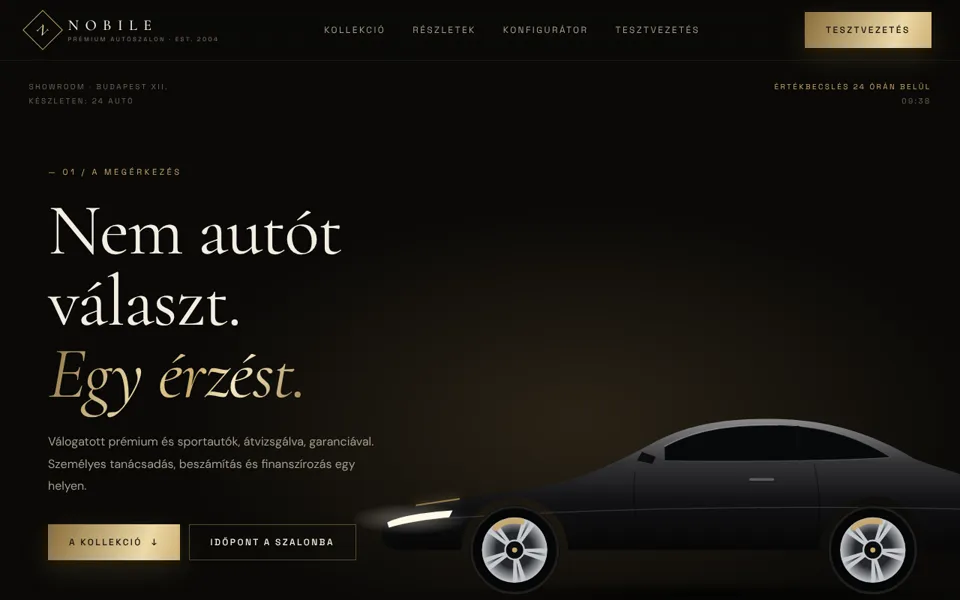
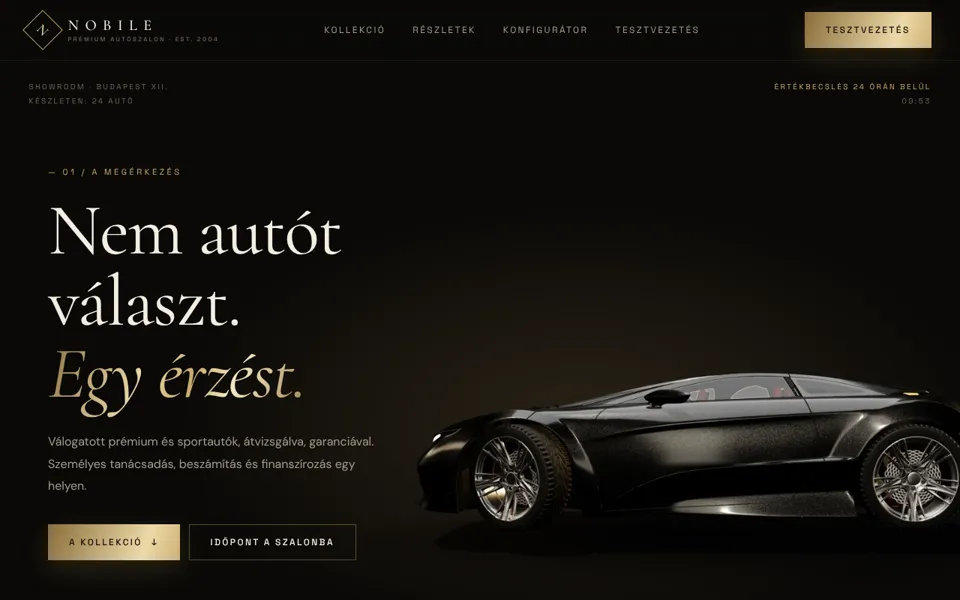
NOBILE demó: fotószerű autó-renderek a rajzolt autók helyett
A Khronos „Car Concept” 3D modelljéből (CC BY 4.0) stúdiófényben,
logók nélkül renderelt WebP-képek: nyitókép árnyék nélküli maszkkal a
fénysávhoz, 5 kollekciópanel és 15 konfigurátorkép (5 szín × 3 felni)
előtöltéses áttűnéssel. Forrásmegjelölés a láblécben.

Claude-Session: https://claude.ai/code/session_01PW6wdywBd8st8c1yxNUGe2

Changed region(s): [[0.375, 0.6, 1.0, 0.99]]

diff --git a/public/demos/nobile-autoszalon/script.js b/public/demos/nobile-autoszalon/script.js
@@ -1,4 +1,4 @@
-/* NOBILE. Prémium Autószalon — autórajzoló, fénysöprés, 3D kollekció aranypor-szétbomlással, konfigurátor, foglalás. */
+/* NOBILE. Prémium Autószalon — fénysöprés, 3D kollekció aranypor-szétbomlással, konfigurátor, foglalás. */
 (() => {
   const $ = (s, r = document) => r.querySelector(s);
   const reduced = matchMedia('(prefers-reduced-motion: reduce)').matches;
@@ -11,81 +11,20 @@
     return '#' + c.map(v => Math.round(k >= 0 ? v + (255 - v) * k : v * (1 + k)).toString(16).padStart(2, '0')).join('');
   }
 
-  /* ---------- Stilizált GT-kupé oldalnézetből (SVG) ---------- */
-  const RIMS = { silver: ['#c4c7cc', '#24262a'], black: ['#3a3a3e', '#0b0b0d'], gold: ['#d2b07a', '#3a2c16'] };
-  let uid = 0;
-  function carSVG(color, rim = 'silver') {
-    const id = 'c' + (++uid), [r1, r2] = RIMS[rim];
-    const body = 'M38,214C36,196 48,184 78,180L214,160C262,152 300,136 352,108C392,86 440,78 500,80C560,82 610,98 656,126C700,142 742,152 760,166C774,178 774,206 766,222L748,232L670,232A62,62 0 0 0 546,232L254,232A62,62 0 0 0 130,232L58,232C44,230 38,224 38,214Z';
-    const roof = 'M78,180L214,160C262,152 300,136 352,108C392,86 440,78 500,80C560,82 610,98 656,126C700,142 742,152 760,166';
-    const wheel = (cx) => `<g class="wheel" data-cx="${cx}" transform="translate(${cx} 232)">
-        <circle r="52" fill="#060606"/><circle r="50" fill="none" stroke="#1d1d1d" stroke-width="3"/>
-        <circle r="38" fill="url(#${id}r)"/>
-        <g class="spokes">${[0, 1, 2, 3, 4].map(k => `<path transform="rotate(${k * 72})" d="M-3,-10L-8,-37L-2,-37L0,-14L2,-37L8,-37L3,-10Z" fill="${r1}"/>`).join('')}</g>
-        <path d="M-22,-26A34,34 0 0 1 8,-33" stroke="#c9a96a" stroke-width="7" fill="none" stroke-linecap="round" opacity=".9"/>
-        <circle r="11" fill="#0c0c0c" stroke="${r1}" stroke-width="2"/><circle r="3" fill="#c9a96a"/>
-      </g>`;
-    return `<svg class="car" viewBox="0 0 800 300" aria-hidden="true">
-      <defs>
-        <linearGradient id="${id}b" x1="0" y1="80" x2="0" y2="235" gradientUnits="userSpaceOnUse">
-          <stop offset="0" stop-color="${shade(color, .5)}"/><stop offset=".32" stop-color="${shade(color, .14)}"/>
-          <stop offset=".6" stop-color="${color}"/><stop offset="1" stop-color="${shade(color, -.75)}"/>
-        </linearGradient>
-        <linearGradient id="${id}s" x1="0" x2="220" gradientUnits="userSpaceOnUse" gradientTransform="translate(-300 0)">
-          <stop offset="0" stop-color="#fff" stop-opacity="0"/><stop offset=".5" stop-color="#fff6e0" stop-opacity=".42"/><stop offset="1" stop-color="#fff" stop-opacity="0"/>
-        </linearGradient>
-        <linearGradient id="${id}l" x1="78" x2="760" gradientUnits="userSpaceOnUse">
-          <stop offset="0" stop-color="#8a6d3b"/><stop offset=".45" stop-color="#fbeac0"/><stop offset="1" stop-color="#c9a96a"/>
-        </linearGradient>
-        <radialGradient id="${id}r"><stop offset=".55" stop-color="${r2}"/><stop offset="1" stop-color="${r1}"/></radialGradient>
-        <radialGradient id="${id}g"><stop offset="0" stop-color="#000" stop-opacity=".85"/><stop offset="1" stop-color="#000" stop-opacity="0"/></radialGradient>
-        <radialGradient id="${id}h"><stop offset="0" stop-color="#fff8e6"/><stop offset="1" stop-color="#fff8e6" stop-opacity="0"/></radialGradient>
-      </defs>
-      <ellipse cx="400" cy="284" rx="390" ry="16" fill="url(#${id}g)"/>
-      <path d="${body}" fill="url(#${id}b)"/>
-      <path d="M366,112C402,92 444,86 498,87C548,88 590,100 628,124C600,128 420,130 366,128Z" fill="#07080a" stroke="#ffffff22"/>
-      <path d="M520,88L524,128" stroke="${shade(color, -.4)}" stroke-width="5"/>
-      <path d="M366,112C402,92 444,86 498,87" fill="none" stroke="#ffffff38" stroke-width="1.5"/>
-      <path d="M70,198C260,184 520,178 764,186" fill="none" stroke="#ffffff26" stroke-width="1.2"/>
-      <path d="M332,140C328,170 332,204 342,228M540,132C548,170 548,204 540,228" fill="none" stroke="#00000066" stroke-width="1.2"/>
-      <path d="M356,124l-16,-6l-6,10l18,4z" fill="${shade(color, -.3)}"/>
-      <path d="M466,150h26" stroke="#ffffff40" stroke-width="3" stroke-linecap="round"/>
-      <path d="M44,200C60,192 90,188 120,186L116,194C92,196 66,200 46,206Z" fill="#fff8e6"/>
-      <ellipse cx="70" cy="196" rx="70" ry="18" fill="url(#${id}h)" opacity=".35"/>
-      <path d="M744,170C758,174 768,182 770,190L762,190C758,184 752,180 742,177Z" fill="#c2202e"/>
-      <path class="sheen" d="${body}" fill="url(#${id}s)"/>
-      <path class="rim-light" d="${roof}" fill="none" stroke="url(#${id}l)" stroke-width="1.8" stroke-linecap="round" pathLength="100" stroke-dasharray="100 100"/>
-      ${wheel(192)}${wheel(608)}
-    </svg>`;
-  }
-  // a fénysöprés, a „rajzoló” peremfény és a kerekek forgása egy 0–1 értékből
-  function lightCar(root, t, spin = t) {
-    const sheen = root.querySelector('linearGradient[id$="s"]');
-    if (sheen) sheen.setAttribute('gradientTransform', `translate(${-300 + t * 1200} 0)`);
-    const rl = root.querySelector('.rim-light');
-    if (rl) rl.style.strokeDashoffset = String(100 - clamp(t * 1.4) * 100);
-    root.querySelectorAll('.spokes').forEach(g => g.setAttribute('transform', `rotate(${-spin * 900})`));
-  }
-
   /* ---------- Óra ---------- */
   const clock = $('#clock');
   const tick = () => { clock.textContent = new Date().toLocaleTimeString('hu-HU', { hour: '2-digit', minute: '2-digit' }); };
   tick(); setInterval(tick, 15000);
 
-  /* ---------- HERO ---------- */
-  const heroCar = $('#heroCar'), sprint = $('#sprint');
-  heroCar.innerHTML = carSVG('#121214', 'silver');
-  lightCar(heroCar, reduced ? 1 : .05);
+  /* ---------- HERO: a fénysöprés tisztán CSS (--p), itt csak a sprintidő fut le ---------- */
+  const sprint = $('#sprint');
   $('.hero').addEventListener('scene:frame', e => {
-    const p = e.detail.p;
-    lightCar(heroCar, .05 + p * .95);
-    sprint.textContent = (9.9 - clamp((p - .15) / .7) * 6.5).toFixed(1);
+    sprint.textContent = (9.9 - clamp((e.detail.p - .15) / .7) * 6.5).toFixed(1);
   });
 
   /* ---------- KOLLEKCIÓ: 3D repülés + aranypor ---------- */
   const corridor = $('#kollekcio'), world = $('#world'), pin = corridor.querySelector('.scene-pin');
   const panels = [...world.children].map((el, i) => ({ el, i, x: Number(el.dataset.x || 0), y: Number(el.dataset.y || 0), gone: false, color: el.dataset.color || '#c9a96a' }));
-  panels.forEach(pn => { const slot = pn.el.querySelector('.pc-car'); if (slot) slot.innerHTML = carSVG(pn.color, 'silver'); if (slot) lightCar(slot, .7, 0); });
 
   if (reduced) {
     corridor.classList.add('flat');
@@ -179,19 +118,24 @@
   }).join('');
 
   /* ---------- KONFIGURÁTOR + FINANSZÍROZÁS ---------- */
-  const paints = { obsidian: ['#121214', 'Obszidián', 0], champagne: ['#b89b68', 'Pezsgő', 1200000], bordeaux: ['#5b1720', 'Bordó', 950000], racing: ['#1d3a2c', 'Brit zöld', 950000], pearl: ['#e9e4da', 'Gyöngyház', 1450000] };
+  const paints = { obsidian: ['Obszidián', 0], champagne: ['Pezsgő', 1200000], bordeaux: ['Bordó', 950000], racing: ['Brit zöld', 950000], pearl: ['Gyöngyház', 1450000] };
   const rims = { silver: ['20″ ezüst', 0], black: ['21″ fekete', 680000], gold: ['22″ bronz', 1150000] };
   const BASE = 68900000;
-  const form = $('#cfgForm'), cfgCar = $('#cfgCar'), down = $('#down'), term = $('#term');
-  let price = BASE, cfg = {};
+  const form = $('#cfgForm'), cfgImg = $('#cfgImg'), down = $('#down'), term = $('#term');
+  let price = BASE, cfg = {}, swapId = 0;
   function paintCar() {
     const f = new FormData(form);
     cfg = { paint: f.get('paint'), rim: f.get('rim') };
-    cfgCar.innerHTML = carSVG(paints[cfg.paint][0], cfg.rim);
-    lightCar(cfgCar, .62, 0);
-    if (!reduced) cfgCar.animate([{ opacity: 0, transform: 'translateX(24px)' }, { opacity: 1, transform: 'none' }], { duration: 500, easing: 'cubic-bezier(.2,.8,.2,1)' });
-    $('#cfgName').textContent = `GT COUPÉ V8 · ${paints[cfg.paint][1].toUpperCase()}`;
-    price = BASE + paints[cfg.paint][2] + rims[cfg.rim][1];
+    // a következő render előtöltése, majd áttűnés – ne villanjon üres kép
+    const src = `img/cfg-${cfg.paint}-${cfg.rim}.webp`, id = ++swapId, next = new Image();
+    next.src = src;
+    next.decode().catch(() => {}).then(() => {
+      if (id !== swapId) return;
+      cfgImg.src = src;
+      if (!reduced) cfgImg.animate([{ opacity: 0, transform: 'translateX(28px)' }, { opacity: 1, transform: 'none' }], { duration: 550, easing: 'cubic-bezier(.2,.8,.2,1)' });
+    });
+    $('#cfgName').textContent = `GT COUPÉ V8 · ${paints[cfg.paint][0].toUpperCase()}`;
+    price = BASE + paints[cfg.paint][1] + rims[cfg.rim][1];
     calc();
   }
   function calc() {
@@ -212,7 +156,7 @@
   const note = $('#cfgNote');
   $('#takeCfg').addEventListener('click', () => {
     note.hidden = false;
-    note.textContent = `Csatolt konfiguráció: GT Coupé V8, ${paints[cfg.paint][1].toLowerCase()} fényezés, ${rims[cfg.rim][0]} felni – ${ft(price)}, havi ${$('#monthly').textContent}.`;
+    note.textContent = `Csatolt konfiguráció: GT Coupé V8, ${paints[cfg.paint][0].toLowerCase()} fényezés, ${rims[cfg.rim][0]} felni – ${ft(price)}, havi ${$('#monthly').textContent}.`;
   });
 
   /* ---------- Időpontfoglalás (demó, nem küld adatot) ---------- */

diff --git a/public/demos/nobile-autoszalon/index.html b/public/demos/nobile-autoszalon/index.html
@@ -7,6 +7,7 @@
     <meta name="theme-color" content="#0a0907">
     <title>NOBILE. Prémium Autószalon | Demó</title>
     <link rel="preload" href="/fonts/cormorant-garamond.woff2" as="font" type="font/woff2" crossorigin>
+    <link rel="preload" as="image" href="img/hero.webp" imagesrcset="img/hero-1100.webp 1100w, img/hero.webp 2200w" imagesizes="(max-width:860px) 118vw, 78vw">
     <link rel="stylesheet" href="/fonts/fonts.css"><link rel="stylesheet" href="../shared/scroll3d.css"><link rel="stylesheet" href="style.css">
     <script src="../shared/scroll3d.js" defer></script><script src="script.js" defer></script>
   </head>
@@ -46,7 +47,10 @@
               <a class="btn btn-line" href="#tesztvezetes">Időpont a szalonba</a>
             </div>
           </div>
-          <div class="hero-car" id="heroCar" aria-hidden="true"></div>
+          <div class="hero-car" aria-hidden="true">
+            <img src="img/hero.webp" srcset="img/hero-1100.webp 1100w, img/hero.webp 2200w" sizes="(max-width:860px) 118vw, 78vw" width="2200" height="900" alt="" fetchpriority="high" decoding="async">
+            <span class="sheen"></span>
+          </div>
           <div class="hero-specs" aria-hidden="true">
             <div><small>TELJESÍTMÉNY</small><strong><span data-t=".15,.75" data-count="625">0</span><em> LE</em></strong></div>
             <div><small>0–100 KM/H</small><strong id="sprint">9.9</strong><em> s</em></div>
@@ -72,27 +76,27 @@
                 <strong>Öt autó.<br><em>Öt történet.</em></strong>
               </div>
               <article class="panel car-panel" data-x="-1" data-color="#121214" data-name="Grand Tourer V8">
-                <div class="pc-car"></div>
+                <div class="pc-car"><img src="img/panel-obsidian.webp" srcset="img/panel-obsidian-640.webp 640w, img/panel-obsidian.webp 1200w" sizes="(max-width:860px) 84vw, 560px" width="1200" height="560" alt="GT Coupé V8 – obszidián fényezés" decoding="async"></div>
                 <div class="pc-meta"><small>01 · GRAND TOURER</small><h3>GT Coupé V8</h3><p>2023 · 14 200 km · 625 LE · Obszidián</p><b>68 900 000 Ft</b></div>
               </article>
               <article class="panel car-panel" data-x="1" data-color="#b89b68" data-name="Executive Sedan">
-                <div class="pc-car"></div>
-                <div class="pc-meta"><small>02 · LIMUZIN</small><h3>Executive Hybrid</h3><p>2024 · 6 800 km · 489 LE · Pezsgő</p><b>52 400 000 Ft</b></div>
+                <div class="pc-car"><img src="img/panel-champagne.webp" srcset="img/panel-champagne-640.webp 640w, img/panel-champagne.webp 1200w" sizes="(max-width:860px) 84vw, 560px" width="1200" height="560" alt="GT Coupé Hybrid – pezsgő fényezés" decoding="async"></div>
+                <div class="pc-meta"><small>02 · HIBRID</small><h3>GT Coupé Hybrid</h3><p>2024 · 6 800 km · 680 LE · Pezsgő</p><b>52 400 000 Ft</b></div>
               </article>
               <div class="panel quote-panel" data-x="0" data-y="-.2">
                 <blockquote>„A jó autó nem visz el valahová.<br><em>Hazahoz.”</em></blockquote>
               </div>
               <article class="panel car-panel" data-x="-1" data-color="#5b1720" data-name="Roadster">
-                <div class="pc-car"></div>
-                <div class="pc-meta"><small>03 · ROADSTER</small><h3>Roadster S</h3><p>2022 · 21 500 km · 510 LE · Bordó</p><b>44 900 000 Ft</b></div>
+                <div class="pc-car"><img src="img/panel-bordeaux.webp" srcset="img/panel-bordeaux-640.webp 640w, img/panel-bordeaux.webp 1200w" sizes="(max-width:860px) 84vw, 560px" width="1200" height="560" alt="GT Coupé S – bordó fényezés" decoding="async"></div>
+                <div class="pc-meta"><small>03 · SPORT</small><h3>GT Coupé S</h3><p>2022 · 21 500 km · 510 LE · Bordó</p><b>44 900 000 Ft</b></div>
               </article>
               <article class="panel car-panel" data-x="1" data-color="#1d3a2c" data-name="SUV Coupé">
-                <div class="pc-car"></div>
-                <div class="pc-meta"><small>04 · SUV COUPÉ</small><h3>Touring SUV</h3><p>2024 · 3 100 km · 571 LE · Brit zöld</p><b>61 700 000 Ft</b></div>
+                <div class="pc-car"><img src="img/panel-racing.webp" srcset="img/panel-racing-640.webp 640w, img/panel-racing.webp 1200w" sizes="(max-width:860px) 84vw, 560px" width="1200" height="560" alt="GT Coupé Touring – brit zöld fényezés" decoding="async"></div>
+                <div class="pc-meta"><small>04 · TOURING</small><h3>GT Coupé Touring</h3><p>2024 · 3 100 km · 571 LE · Brit zöld</p><b>61 700 000 Ft</b></div>
               </article>
               <article class="panel car-panel" data-x="0" data-color="#e9e4da" data-name="Limousine">
-                <div class="pc-car"></div>
-                <div class="pc-meta"><small>05 · KÜLÖNLEGESSÉG</small><h3>Heritage Coupé</h3><p>1998 · 48 000 km · Gyöngyház · gyűjtői darab</p><b>Ár kérésre</b></div>
+                <div class="pc-car"><img src="img/panel-pearl.webp" srcset="img/panel-pearl-640.webp 640w, img/panel-pearl.webp 1200w" sizes="(max-width:860px) 84vw, 560px" width="1200" height="560" alt="Launch Edition – gyöngyház fényezés" decoding="async"></div>
+                <div class="pc-meta"><small>05 · KÜLÖNLEGESSÉG</small><h3>Launch Edition</h3><p>2021 · 9 400 km · 1 / 99 · Gyöngyház</p><b>Ár kérésre</b></div>
               </article>
               <div class="panel title-panel end-panel" data-x="0" data-y="0">
                 <small>A KÉSZLET TOVÁBBI 19 AUTÓJA</small>
@@ -150,8 +154,8 @@
           <div class="cfg-grid">
             <div class="cfg-stage">
               <div class="stage-hud"><span id="cfgName">GT COUPÉ V8 · OBSZIDIÁN</span><span>360° · STÚDIÓ</span></div>
-              <div class="cfg-car" id="cfgCar" aria-hidden="true"></div>
-              <div class="turntable" aria-hidden="true"></div>
+              <img class="cfg-car" id="cfgImg" src="img/cfg-obsidian-silver.webp" width="1400" height="600" alt="A konfigurált GT Coupé V8 oldalnézetből" decoding="async">
+              
             </div>
             <form class="cfg-panel" id="cfgForm" aria-label="Konfigurátor és finanszírozási kalkulátor">
               <fieldset>
@@ -243,7 +247,7 @@
     <footer class="foot">
       <div class="wrap foot-grid">
         <div class="brand-big">NOBILE</div>
-        <p>Fiktív vállalkozás – a weboldal a <strong>Megyeri Márk Máté | Webfejlesztés</strong> portfóliódemója. Szeretne hasonló élményt a saját vállalkozásának?</p>
+        <p>Fiktív vállalkozás – a weboldal a <strong>Megyeri Márk Máté | Webfejlesztés</strong> portfóliódemója. Szeretne hasonló élményt a saját vállalkozásának?<small class="credit">3D modell: „Car Concept” – Eric Chadwick / Darmstadt Graphics Group, <a href="https://creativecommons.org/licenses/by/4.0/" target="_blank" rel="noopener">CC BY 4.0</a>, a demóhoz átszínezve és logók nélkül renderelve.</small></p>
         <a class="btn btn-gold" href="/ajanlatkeres?type=business">Ilyen oldalt kérek <span aria-hidden="true">↗</span></a>
       </div>
     </footer>

diff --git a/public/demos/nobile-autoszalon/style.css b/public/demos/nobile-autoszalon/style.css
@@ -69,9 +69,12 @@ h1 em,h2 em,.panel em,blockquote em{font-style:italic;background:var(--metal);-w
 .scroll-hint span{width:1px;height:42px;background:linear-gradient(var(--gold),transparent);animation:drip 2.2s infinite var(--ease)}
 @keyframes drip{0%{transform:scaleY(0);transform-origin:top}50%{transform:scaleY(1);transform-origin:top}51%{transform-origin:bottom}100%{transform:scaleY(0);transform-origin:bottom}}
 
-/* car svg közös */
-.car{width:100%;height:auto;overflow:visible}
-.car .rim-light{filter:drop-shadow(0 0 6px #f3dca5aa)}
+/* fotószerű render + görgetésre végigsöprő fénysáv (az autó alakjára maszkolva) */
+.hero-car img{display:block;width:100%;height:auto}
+.hero-car .sheen{position:absolute;inset:0;pointer-events:none;mix-blend-mode:screen;
+  -webkit-mask:url(img/hero-mask.webp) center/100% 100% no-repeat;mask:url(img/hero-mask.webp) center/100% 100% no-repeat;
+  background:linear-gradient(100deg,transparent 0 44%,#fff3d840 48%,#fffaf099 50%,#fff3d840 52%,transparent 56% 100%) no-repeat;
+  background-size:300% 100%;background-position:calc(100% - var(--p,0) * 100%) 0}
 
 /* CORRIDOR — a védjegy-effekt */
 .corridor .scene-pin{background:radial-gradient(ellipse 60% 50% at 50% 50%,#1d1810 0,var(--bg) 70%)}
@@ -81,7 +84,8 @@ h1 em,h2 em,.panel em,blockquote em{font-style:italic;background:var(--metal);-w
 .panel{position:absolute;left:0;top:0;width:min(560px,78vw);transform-style:preserve-3d;will-change:transform,opacity;backface-visibility:hidden}
 .car-panel{padding:22px 22px 26px;border:1px solid #c9a96a40;background:linear-gradient(160deg,#1a1610f2,#0d0b08f5);box-shadow:0 40px 100px #000c,inset 0 1px #ecd9a826}
 .car-panel::before{content:'';position:absolute;inset:8px;border:1px solid #c9a96a14;pointer-events:none}
-.pc-car{aspect-ratio:2.6/1;margin:-10px 0 8px;background:radial-gradient(ellipse 60% 40% at 50% 75%,#3a2f1d88,transparent 70%)}
+.pc-car{aspect-ratio:1200/560;margin:-14px -8px 4px;background:radial-gradient(ellipse 60% 40% at 50% 70%,#3a2f1d88,transparent 70%)}
+.pc-car img{display:block;width:100%;height:100%;object-fit:contain}
 .pc-meta small{font:400 10px var(--mono);letter-spacing:.28em;color:var(--gold)}
 .pc-meta h3{font-size:clamp(30px,3vw,44px);margin:8px 0 6px}
 .pc-meta p{margin:0 0 14px;color:var(--muted);font-size:14px}
@@ -141,8 +145,8 @@ h1 em,h2 em,.panel em,blockquote em{font-style:italic;background:var(--metal);-w
 .cfg-stage::before{content:'';position:absolute;inset:0;background:repeating-linear-gradient(90deg,transparent 0 79px,#c9a96a0a 80px);pointer-events:none}
 .stage-hud{position:absolute;top:22px;left:24px;right:24px;display:flex;justify-content:space-between;font:400 10px var(--mono);letter-spacing:.24em;color:var(--dim)}
 .stage-hud span:first-child{color:var(--gold)}
-.cfg-car{position:relative;z-index:2;width:92%}
-.turntable{position:absolute;bottom:13%;width:80%;height:56px;border-radius:50%;border:1px solid #c9a96a33;background:radial-gradient(ellipse,#c9a96a22,transparent 70%)}
+.cfg-car{position:relative;z-index:2;width:100%;height:auto;margin-top:30px}
+
 .cfg-panel{display:grid;gap:14px;align-content:start}
 fieldset{margin:0;padding:20px 22px;border:1px solid #c9a96a26;background:#100e0b}
 legend{padding:0 8px;font:400 10.5px var(--mono);letter-spacing:.28em;text-transform:uppercase;color:var(--gold)}
@@ -219,6 +223,8 @@ input[type=range]::-moz-range-thumb{width:14px;height:14px;transform:rotate(45de
 .foot-grid{display:grid;grid-template-columns:auto 1fr auto;gap:44px;align-items:center}
 .brand-big{font:300 clamp(48px,8vw,120px)/1 var(--serif);letter-spacing:.3em;background:var(--metal);-webkit-background-clip:text;background-clip:text;color:transparent}
 .foot p{color:var(--muted);max-width:420px}
+.credit{display:block;margin-top:14px;font-size:11px;line-height:1.5;color:var(--dim)}
+.credit a{color:var(--muted)}
 
 /* RESPONSIVE */
 @media (max-width:1100px){
